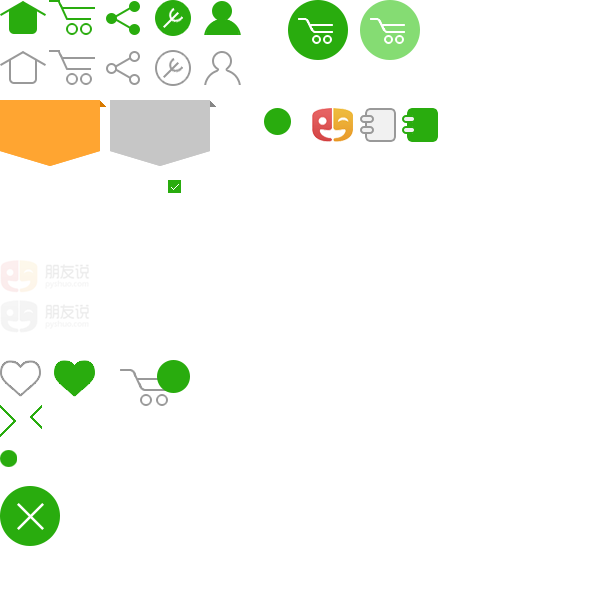
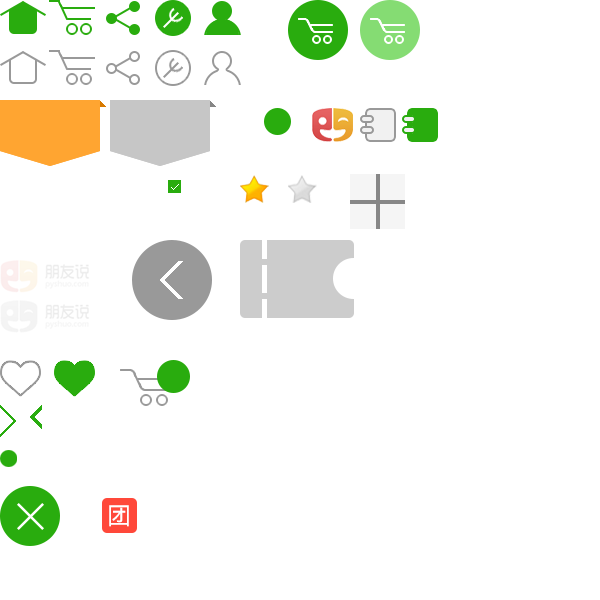
alter coupon style

diff --git a/app/View/Themed/default/users/my_coupons.html b/app/View/Themed/default/users/my_coupons.html
@@ -1,34 +1,63 @@
-<style>
-    .bg-danger {
-        background-color: #f2dede;
-    }
-</style>
-<h3>我的优惠券</h3>
-<div class="list-group">
+{{if empty($coupons)}}
+<!--暂无优惠券-->
+<div class="coupon_no" >
+    <ul>
+        <li class="coupon_no_icon"></li>
+        <li class="coupon_no_word">暂无优惠券</li>
+    </ul>
+</div>
+{{else}}
+<div class="coupon">
     <?php foreach($coupons as $coupon) {
      $expired = coupon_expired($coupon);
     ?>
-    <div class="list-group-item">
-        <h4 class="list-group-item-heading">{{$coupon['Coupon']['name']}} &nbsp;&nbsp;
-            {{if $coupon['CouponItem']['status'] == COUPONITEM_STATUS_USED}}
-            <span class="label label-default">已使用</span>
-            {{elseif $expired }}<span class="label label-default">已过期</span>
-            {{elseif $coupon['CouponItem']['status'] == COUPONITEM_STATUS_TO_USE }}
-            <span class="label label-success">未使用</span>
-            {{/if}} &nbsp;面值：<span style="color: #ffa200;">{{$this->Number->precision($coupon['Coupon']['reduced_price']/100, 2)}}</span></h4>
-        <p class="list-group-item-text">
-            有效期：{{$coupon['Coupon']['valid_begin']}} - {{$coupon['Coupon']['valid_end']}}
-        </p>
-        {{if $coupon['CouponItem']['status'] == COUPONITEM_STATUS_TO_USE && !$expired }}
-        <div class="btn-sm btn-warning">
-            {{if $coupon['Coupon']['id']  == COUPON_TYPE_RICE_1KG }}去<a style="color: #ffffff;text-decoration: underline; padding-left: 0.5em; padding-right: 0.5em" href="/categories/special_list/special_for_rice_coupons.html">大米劵特惠专场</a>选择购买商品
-            {{elseif intval($coupon['Coupon']['product_list']) > 0 }}<a style="color: #ffffff; text-decoration: underline;text-decoration: underline; padding-left: 0.5em; padding-right: 0.5em" href="{{product_link($coupon['Coupon']['product_list'], '/')}}">查看商品</a>
-            {{elseif $coupon['Coupon']['brand_id'] && empty($coupon['Coupon']['product_list'])}} 去<a style="color: #ffffff;text-decoration: underline; padding-left: 0.5em; padding-right: 0.5em" href="{{brand_link($coupon['Coupon']['brand_id'], array('show_products' => 1))}}">专店</a>选购
-            {{elseif !empty($coupon['Coupon']['brand_id'])}}去<a style="color: #ffffff; text-decoration: underline;text-decoration: underline; padding-left: 0.5em; padding-right: 0.5em" href="{{brand_link($coupon['Coupon']['brand_id'])}}">专店</a>选购
-            {{else}}在<a style="color: #ffffff; text-decoration: underline;text-decoration: underline; padding-left: 0.5em; padding-right: 0.5em" href="/">朋友说全站</a>购物
-            {{/if}}
-            ，结算时使用</div>
-        {{/if}}
-        </div>
+
+    <a class="coupon_usable" {{if $expired }} style="display:none;" {{/if}}
+    {{if intval($coupon['Coupon']['product_list']) > 0 }}
+        href="{{product_link($coupon['Coupon']['product_list'], '/')}}"
+    {{elseif !empty($coupon['Coupon']['brand_id']) && empty($coupon['Coupon']['product_list'])}}
+        href="{{brand_link($coupon['Coupon']['brand_id'])}}"
+    {{elseif !empty($coupon['Coupon']['category_id'])}}
+        href="{{category_link($coupon['Coupon']['category_id'])}}"
+    {{else}}
+        href="/"
+    {{/if}}
+    >
+        <ul class="clearfix">
+            <Li class="fl {{if $expired || $coupon['CouponItem']['status'] == COUPONITEM_STATUS_USED}} disabled {{else}}usable{{/if}}">
+                <div style="padding-left:0.5em;">
+                    <span>{{$coupon['Coupon']['name']}}</span><br />￥<strong>{{$this->Number->precision($coupon['Coupon']['reduced_price']/100, 2)}}</strong><br />
+                    {{if ($coupon['Coupon']['least_price'] != 0)}}<span style="padding-left:0.5em;">订单满 {{$coupon['Coupon']['least_price']/100}} 元使用 (不包含邮费)</span>{{/if}}
+                </div>
+            </Li>
+            <Li class="fr">
+                <span>有效期</span><br /><span>{{date("m.d", strtotime($coupon['Coupon']['valid_begin']))}}~{{date("m.d", strtotime($coupon['Coupon']['valid_end']))}}</span><br />
+                <span>
+                    {{if $coupon['CouponItem']['status'] == COUPONITEM_STATUS_USED}}
+                        已使用
+                    {{elseif $expired }}
+                        已过期
+                    {{elseif $coupon['CouponItem']['status'] == COUPONITEM_STATUS_TO_USE }}
+                        使用
+                    {{/if}}
+                </span>
+            </Li>
+        </ul>
+    </a>
     <?php } ?>
+    <a id="coupon_toggle" style="text-decoration:none" class="coupon_link">查看过期优惠券</a>
 </div>
+{{/if}}
+<div style="padding-bottom: 50px"></div>
+<script>
+    $(document).ready(function(){
+        $('body').css("background-color","#f5f5f5");
+        $('footer').hide();
+        $('#coupon_toggle').on('click', function(){
+            var link_text = $('#coupon_toggle').text();
+            $('#coupon_toggle').text(link_text == '收起'? '查看过期优惠券': '收起');
+            $('.coupon_usable .disabled').closest('a').toggle();
+            $('#coupon_toggle').css('color', '#999999');
+        })
+    })
+</script>

diff --git a/webroot/css/layout_3g.css b/webroot/css/layout_3g.css
@@ -494,3 +494,32 @@ a:hover, a:focus {
 .comment_bingbtn{ width:5.2em; display:block; text-decoration:none; font-size:0.9em; background-color:#ffffff; text-align:center; padding:0.2em 0; border:1px #dddddd solid; color:#999999;}
 .comment_nobingbtn{ width:5.2em; display:block; text-decoration:none; font-size:0.9em; background-color:#ffa531; text-align:center; padding:0.2em 0; border:1px #ffa531 solid; color:#ffffff;}
 .comment_tanchubg_layer {font-size:14px}
+
+/*我的优惠券*/
+.coupon{ padding:0.833em;}
+.coupon_usable{ border:#dddddd 1px solid; background-color:#ffffff; display:block; text-decoration:none; margin-bottom:0.833em;height:84px;}
+.coupon_usable ul li.usable{ width:70%; background-color:#fdb456; font-size:1em; line-height:1.5em; color:#ffffff; padding:0.5em 0; height:84px;}
+.coupon_usable ul li.disabled{ width:70%; background-color:#dddddd; font-size:1em; line-height:1.5em; color:#999999; padding:0.5em 0; height:84px;}
+.coupon_usable ul li.fl strong{ font-size:2em;}
+.coupon_usable ul li.fr{ width:30%; font-size:1em; line-height:1.5em; color:#666666; text-align:center; padding:0.7em 0 0 0;}
+.coupon_link{ font-size:1em; color:#999999; text-align:center; line-height:2.5em; display:block;}
+.coupon_no{ padding-top:50%; width:5em; margin:0 auto;}
+.coupon_no_icon{ width:4.75em; height:3.25em; background:url(/img/mobilev1/pyshuo_icon.png) -10em -10em no-repeat; background-size:25em 25em;}
+.coupon_no_word{ font-size:1em; line-height:2.5em; color:#999999;}
+
+
+.badge{
+    padding: 0 4px;
+    height: 1em;
+    line-height: 1em;
+    border-radius: 0.5em;
+    text-align: center;
+    color: #FFF;
+    font-family: Arial;
+    box-shadow: 1px 1px 1px rgba(0,0,0,0.3);
+    background: #ff483a;
+    position: absolute;
+    top: -10px;
+    right: -5px;
+    z-index: 3;
+}

diff --git a/app/Config/bootstrap.php b/app/Config/bootstrap.php
@@ -844,7 +844,15 @@ function brand_link($brand_id, $params = array()) {
 
     return $url;
 }
-
+function category_link($category_id){
+    $productTagM = ClassRegistry::init('ProductTag');
+    $tag = $productTagM->find('first', array(
+        'conditions' => array($category_id),
+        'fields' => array('slug')
+    ));
+    $url = (!empty($tag)) ? '/categories/tag/'.$tag['ProductTag']['slug'].'.html' : '/';
+    return $url;
+}
 function small_thumb_link($imgUrl) {
     return thumb_link($imgUrl, 'thumb_s');
 }
